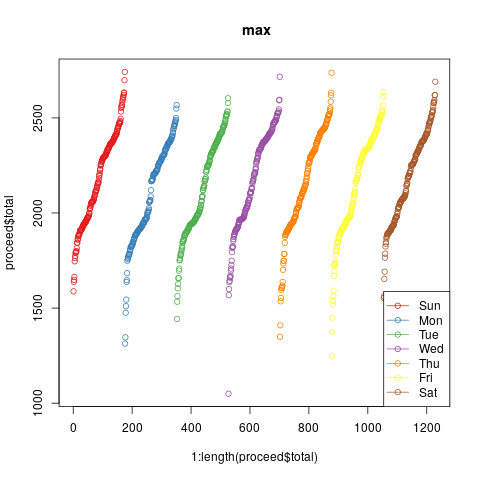
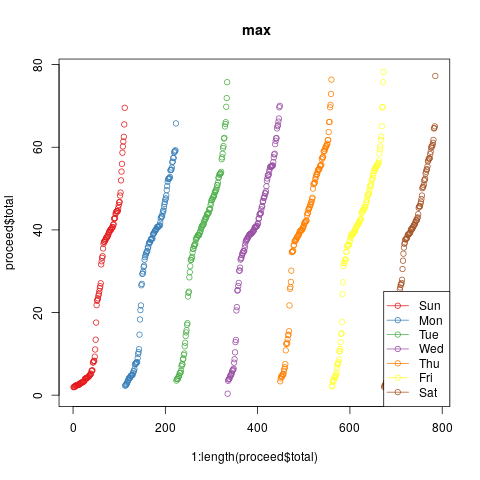
update

diff --git a/pages/dershare.vue b/pages/dershare.vue
@@ -16,8 +16,7 @@
                 <div>
                   <ul>
                     <li>
-                        <!-- <button class="w-100 f5 link dim br1 ba bw2 ph3 pv2 mb2 dib" @click="loadData(1)"> Data Exploratory Analysis </button> -->
-                        <button class="w-100 f5 link dim br1 ba bw2 ph3 pv2 mb2 dib" @click="dataExplore()"> Data Exploratory Analysis </button>
+                        <!-- <button class="w-100 f5 link dim br1 ba bw2 ph3 pv2 mb2 dib" @click="dataExplore()"> Data Exploratory Analysis </button> -->
                     </li>
                     <li>
                         <button class="w-100 f5 link dim br1 ba bw2 ph3 pv2 mb2 dib" @click="bizAnalysisDershare()">Business Analysis</button>
@@ -62,10 +61,18 @@
           <section class="ma2 pa4 w-100">
             <h3 class="code f4"> 사업평가서 측정값 </h3>
             <div class="code pa1 fl w-30 bg-near-white">
+
+              <div class="mv2  measure">
+                <label for="name" class="f6 b db mb2"> 어카운트 </label>
+              <select v-model="selected" @change="changeAcc(selected)">
+                <option v-for="(option, idx) in accounts" :key="idx" v-bind:value="option">
+                  Acc: {{ option.id }}: {{option.contract_demand}} kW
+                </option>
+              </select>
+              </div>
               <div class="mv2 measure ">
                 <label for="name" class="f6 b db mb2"> 어카운트 </label>
-                <input v-model="input_feasible.measure_csv" id="name" class="input-reset ba b--black-20 pa2 mb2 db w-100" type="text" aria-describedby="name-desc">
-                
+                <input v-model="input_feasible.measure_csv" id="name" class="input-reset ba b--black-20 pa2 mb2 db w-100" type="text" aria-describedby="name-desc"> 
               </div>
               <div class="mv2  measure">
                 <label for="name" class="f6 b db mb2"> 운영 시작월 </label>
@@ -203,7 +210,7 @@
           <hr/>
           
           <section class="w-100">
-            <h3 class="code underline intro--headline karla fw6 measure-narrow lh-title pb3"> Max, Min, Sum by Week of Days </h3>
+            <!-- <h3 class="code underline intro--headline karla fw6 measure-narrow lh-title pb3"> Max, Min, Sum by Week of Days </h3>
             <div class="left--expand w-100 center">
               <div class="ma1" v-for="i in imagePre" >
                 <img style="max-width: 400px" class="center mw-80" alt="night sky over water" :src='i' />
@@ -215,22 +222,23 @@
               <div class="ma1" v-for="i in imageHeat" >
                 <img style="max-width: 400px" class="center mw-80" alt="night sky over water" :src='i'>
               </div>
-            </div>
+            </div> -->
 
             <h3 class="code underline intro--headline 
               karla fw6 measure-narrow lh-title pb3"> 사업성 평가 </h3>
             <div class="w-100 center">
+              
               <div class="ma1" v-for="(i, idx) in imageBiz" :key="idx" >
-                
-                <div>
+                <div v-if-="bizSum">
                   <table class="collapse ba br2 b--black-10 pv2 ph3">
                     <thead>
                       <tr class="striped--light-gray ">
                         <th class="pv2 ph3 tl f6 fw6 ttu">ID</th>
                         <th class="pv2 ph3 tl f6 fw6 ttu">battery</th>
+                        <th class="pv2 ph3 tl f6 fw6 ttu">pcs</th>
                         <th class="pv2 ph3 tl f6 fw6 ttu">Construction_Cost</th>
                         <th class="pv2 ph3 tl f6 fw6 ttu">equity_irr</th>
-                        <th class="pv2 ph3 tl f6 fw6 ttu">pcs</th>
+                        
                         <th class="pv2 ph3 tl f6 fw6 ttu">peak_cut</th>
                         <th class="pv2 ph3 tl f6 fw6 ttu">project_irr</th>
                       </tr>
@@ -239,9 +247,9 @@
                       <tr class="striped--light-gray ">
                         <td class="pv2 ph3">{{bizSum[idx].idx}}</td>
                         <td class="pv2 ph3">{{bizSum[idx].battery}}</td>
+                        <td class="pv2 ph3">{{bizSum[idx].pcs}}</td>
                         <td class="pv2 ph3">{{bizSum[idx].construction_cost}}</td>
                         <td class="pv2 ph3">{{bizSum[idx].equ_irr}}</td>
-                        <td class="pv2 ph3">{{bizSum[idx].pcs}}</td>
                         <td class="pv2 ph3">{{bizSum[idx].peak_cut}}</td>
                         <td class="pv2 ph3">{{bizSum[idx].project_irr}}</td>
                       </tr>
@@ -249,7 +257,7 @@
 
                   </table>  
                 </div>
-                <img style="" class="center mw-80" alt="night sky over water" :src='i.img' />
+                <img style="max-width: 600px;" class="center mw-80" alt="night sky over water" :src='i.img' />
               </div>
             </div>
             
@@ -309,10 +317,35 @@ export default {
   },
   data() {
     return {
+      accounts: [
+        {id: "1324150430", contract_demand: 800},
+        {id: "0339061375", contract_demand: 950},
+        {id: "0337995003", contract_demand: 950},
+        {id: "0335650156", contract_demand: 5000},
+        {id: "1323735506", contract_demand: 950},
+        {id: "0338270748", contract_demand: 800},
+        {id: "1710008835", contract_demand: 850},
+        {id: "1713401431", contract_demand: 2000},
+        // {id: "1715009174", contract_demand: 25},
+        {id: "0710051681", contract_demand: 1000},
+        {id: "0339348968", contract_demand: 750},
+        {id: "1710008489", contract_demand: 990},
+        {id: "0135169421", contract_demand: 2400},
+        {id: "0710051690", contract_demand: 300},
+        {id: "0710051627", contract_demand: 17600},
+        {id: "0712465810", contract_demand: 1500},
+        {id: "1710058040", contract_demand: 10000},
+        {id: "1712467167", contract_demand: 6000},
+        // {id: "1324145063", contract_demand: 750},
+        {id: "1324097686", contract_demand: 750},
+        {id: "0712301471", contract_demand: 750},
+        {id: "1316121995", contract_demand: 5720},
+        {id: "1511038083", contract_demand: 9950}
+      ],
       acc: "",
       feasibleResult : {},
-      input_feasible: {"measure_csv":"./ts/1316121995.na.csv","start_month": "2018-06",
-          "contract_demand": 5720,
+      input_feasible: {"measure_csv":"./ts/1324150430.na.csv","start_month": "2018-06",
+          "contract_demand": 800,
           "charge": {
               "demand": 8320,
               "energy": {
@@ -366,6 +399,7 @@ export default {
               }
           }
       },
+      selected: "1324150430",
       orgs: [],
       isAailableLog: true,
       imagePre: [],
@@ -379,8 +413,8 @@ export default {
       containers: [],
       msg_docker_result: "",
       //host: 'http://bioinformatics.sdstate.edu:8000',
-      host: "35.200.80.26:3001"
-      // host: "0.0.0.0:3001"
+      // host: "35.200.80.26:3001"
+      host: "0.0.0.0:3001"
     };
   },
   mounted() {
@@ -439,12 +473,15 @@ export default {
     vm.listContainers();
   },
   methods: {
+    changeAcc(){
+      var vm = this
+      vm.input_feasible.measure_csv = `./ts/${vm.selected.id}.na.csv`
+      vm.input_feasible.contract_demand = vm.selected.contract_demand
+    },
     dataExplore() {
       var vm = this;
-      var vm = this;
-      // vm.socket.emit("dataExplore-dershare", "Hello World from client")
-      vm.socket.emit("ts-summary", "Hello World from client")
-      vm.socket.emit("join-test-TS", "Hello World from client")
+      vm.removeImgs()
+      vm.socket.emit("ts-summary", vm.selected)
     },
     buildModel() {
       var vm = this;
@@ -453,7 +490,7 @@ export default {
     removeImgs() {
       var vm = this;
       vm.imagePre = [];
-      vm.imageFinal = [];
+      vm.imageBiz = [];
       vm.imageHeat = [];
       vm.imagePca = [];
     },
@@ -477,6 +514,7 @@ export default {
     },
     bizAnalysisDershare(){
       var vm = this;
+      vm.removeImgs()
       // var input = '{"measure_csv":"./ts/1316121995.na.csv","start_month": "2018-06","contract_demand": 5720,"charge": {"demand": 8320,"energy": {"summer": {"light": 56.1,"normal": 109.0,"heavy": 191.1},"spring_fall": {"light": 56.1,"normal": 78.6,"heavy": 109.3},"winter": {"light": 63.1,"normal": 109.2,"heavy": 166.7}}},"simulation": {"pcs": {"min": 0.05,"max": 0.1,"inc": 0.05},"battery": {"min": 0.11,"max": 0.13,"inc": 0.01},"life_cycle": 14,"construction": {"battery": 300000,"pcs": 140000,"install": 133000,"ems": 30000,"manage": 0.03},"ess_share": {"intense_period": 5,"intense_rate": 0.15,"normal_rate": 0.55},"finance": {"borrow_rate": 0.0,"grace_period": 1,"principal_payment_period": 6,"interest_rate": 0.04},"operation": {"sga_rate": 0.01,"depreciation_period": 7,"corp_tex_rate": 0.22}}}'
       var input = JSON.stringify(vm.input_feasible)
       vm.socket.emit("biz-analysis-dershare", input);

diff --git a/server/socket/runTS.js b/server/socket/runTS.js
@@ -107,7 +107,7 @@ export function runTS(io) {
         pre_process: function (callback) {
             console.log("pre_process")
           docker.run('kruny1001/plumber', ['Rscript', '--vanilla', 'summary.R'
-            , outputDir, inputDir
+            , input.toString()
           ], myStream, Setting)
             .then(function (container) {
               setTimeout(function(){
@@ -164,7 +164,7 @@ export function runTS(io) {
         'HostConfig': {
           'Binds': [
             // '/Users/eunwooson/Downloads/idep-node/server/testFolder/' + outputDir + ':/usr/local/src/myscripts/output',
-            outputDir,
+            // outputDir,
             inputDir
             // root+ '/../testFolder/' + outputDir + ':/usr/local/src/myscripts/output',
             // root+ '/../testFolder/' + 'code/dershare:/usr/local/src/myscripts',
@@ -208,7 +208,7 @@ export function runTS(io) {
           const csv=require('csvtojson')
           console.log(csv)
           csv()
-            .fromFile(__dirname + '/../testFolder/code/output/dershare/bizSum.csv')
+            .fromFile(__dirname + '/../testFolder/code/dershare/output/bizSum.csv')
             .on('json',(jsonObj)=>{
             console.log(jsonObj)
             socket.emit('top10CSV', {
@@ -243,17 +243,29 @@ export function runTS(io) {
           ]
           
           fNames.forEach((fName, idx) =>{
-            fs.readFile(__dirname + '/../testFolder/code/output/dershare/' 
+            try{
+              fs.readFile(__dirname + '/../testFolder/code/dershare/output/' 
               + fName.name , function (err, buf) {
-              console.log(err)
-              socket.emit('imageBiz', {
-                image: true,
-                id: fName.id,
-                type: "scatter",
-                buffer: buf.toString('base64')
-              })
+              
+              if(err)
+                console.log(err)
+              else{
+                socket.emit('imageBiz', {
+                  image: true,
+                  id: fName.id,
+                  type: "scatter",
+                  buffer: buf.toString('base64')
+                })
+                fs.unlinkSync(__dirname + '/../testFolder/code/dershare/output/' + fName.name );
+              }
             });
+            } catch (err) {
+              // Here you get the error when the file was not found,
+              // but you also get any other error
+            }
+            
           })
+          
           callback(null, 'filename');
         }]
       }, function (err, results) {
